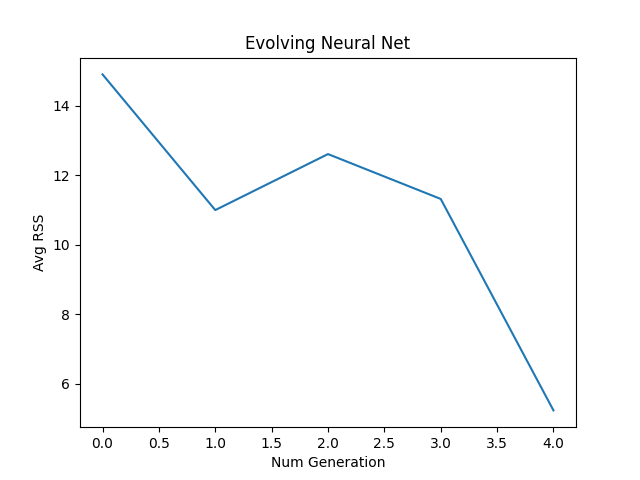
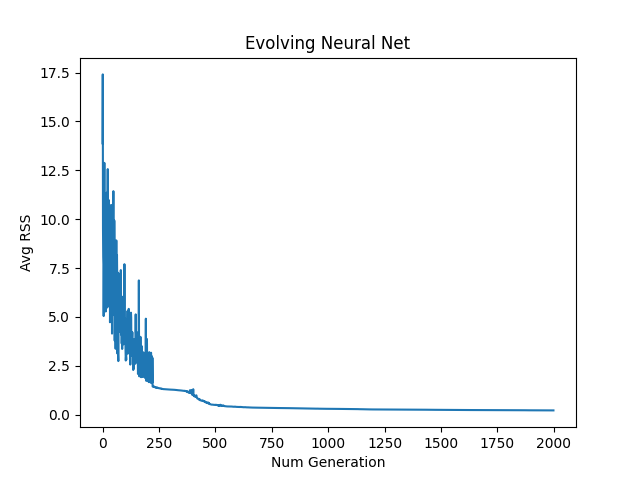
finished evolving neural net

diff --git a/evolving_neural_nets/test.py b/evolving_neural_nets/test.py
@@ -1,7 +1,8 @@
 import sys, os, pkg_resources, math
 pkgs = sorted([str(i.key) for i in pkg_resources.working_set])
 if 'matplotlib' not in pkgs: os.system("pip install matplotlib")
-import matplotlib.pyplot as plt, time
+import matplotlib.pyplot as plt
+from matplotlib.lines import Line2D
 sys.path.append('evolving_neural_nets')
 from evolve_neural_net import *
 
@@ -22,30 +23,49 @@ def normalize(data):
   
 data = normalize(data)
 
-start = time.time()
-
-num_gens = 5
+num_gens = 2000
 avg_rss = []
 first_gen = create_initial_generation([1,10,6,3,1], data, lambda x: math.tanh(x))
-stop = time.time()
-
-print('initial creation', stop-start)
 
 current_gen = first_gen
 for _ in range(num_gens):
-  start = time.time()
   avg_rss.append(get_avg_rss(current_gen))
-  stop = time.time()
-  print('avg rss', stop-start)
-  start = time.time()
   current_gen = create_new_generation(current_gen)
-  stop = time.time()
-  print('new gen', stop-start)
-  print('gen', _, '\n')
-
+  if _%50==0:
+    print('gen', _)
 
 plt.plot(list(range(num_gens)), avg_rss)
 plt.title('Evolving Neural Net')
 plt.xlabel('Num Generation')
 plt.ylabel('Avg RSS')
 plt.savefig('evolving_neural_nets/rss_values.png')
+plt.clf()
+
+
+x_values = []
+for i in range(1):
+    for j in range(0,101):
+        x_values.append(i+j*0.01)
+
+for net in first_gen:
+  y_values = []
+  for x in x_values:
+    y_values.append(net.predict(x))
+  plt.plot(x_values, y_values, color='blue')
+
+for net in current_gen:
+  y_values = []
+  for x in x_values:
+    y_values.append(net.predict(x))
+  plt.plot(x_values, y_values, color='red')
+
+plt.scatter([p[0] for p in data], [p[1] for p in data], color='green')
+custom_lines = [Line2D([0], [0], color='blue', lw=4),
+                Line2D([0], [0], color='red', lw=4),
+                Line2D([0], [0], marker='o', color='w', label='Scatter',
+                          markerfacecolor='g', markersize=12)]
+plt.legend(custom_lines, ['Initial Gen', f'Final Gen ({num_gens})', 'Data'])
+plt.title('Evolving Neural Net')
+plt.xlabel('X')
+plt.ylabel('Predicted Value')
+plt.savefig('evolving_neural_nets/evolved_networks.png')

diff --git a/evolving_neural_nets/evolve_neural_net.py b/evolving_neural_nets/evolve_neural_net.py
@@ -67,12 +67,12 @@ class NeuralNet:
         visited = []
         while queue != []:
             curr_neuron = queue[0]
-            if curr_neuron != self.root_neuron and neuron.bias == False:
+            if curr_neuron.index != 1 and curr_neuron.bias == False:
                 curr_neuron.input = self.calc_neuron_input(curr_neuron)
             self.set_neuron_output(curr_neuron)
-            visited.append(curr_neuron)
+            visited.append(curr_neuron.index)
             for child in curr_neuron.children:
-                if child not in visited:
+                if child.index not in visited and child.index not in [n.index for n in queue]:
                     queue.append(child)
             queue.pop(0)
 
@@ -156,7 +156,6 @@ def create_new_generation(gen):
       child_weights[pair] = weight+parent.alpha*np.random.normal()
     child_mut_rate = parent.alpha*(math.exp(np.random.normal()/(2**(1/2)*(len(parent.weights))**(1/4))))
     child = NeuralNet(child_weights, parent.data, parent.actv_func, len(parent.neurons), parent.biases, alpha=child_mut_rate, neurons=parent.neurons)
-    print(child.biases)
     new_gen.append(child)
   
   return new_gen
